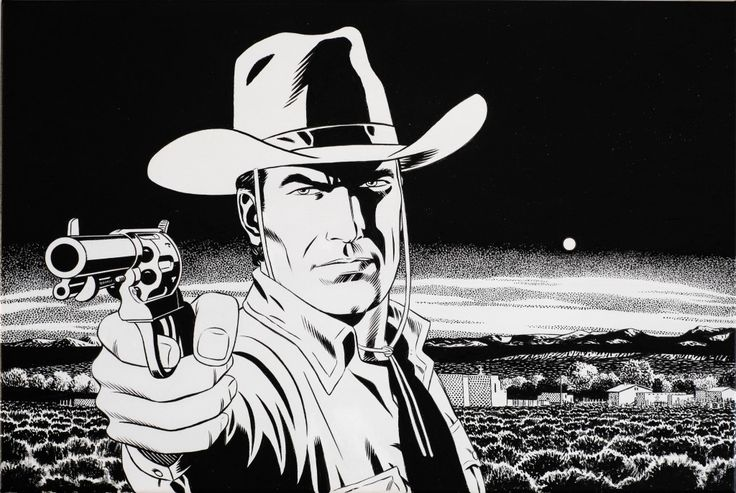
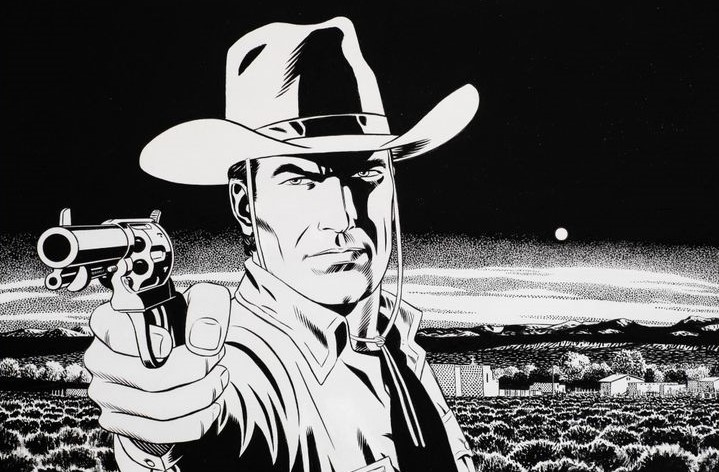
set the backgroung image

diff --git a/styles/portfolio.css b/styles/portfolio.css
@@ -7,7 +7,10 @@ body {
   color: white;
 }
 .tex {
-  background-image: url("images/tex-home.jpg");
+  background-image: url("../images/tex-home.jpg");
+  background-repeat: no-repeat;
+  background-position: center;
+  background-position-y: top;
   text-align: center;
   margin-top: 276px;
 }
